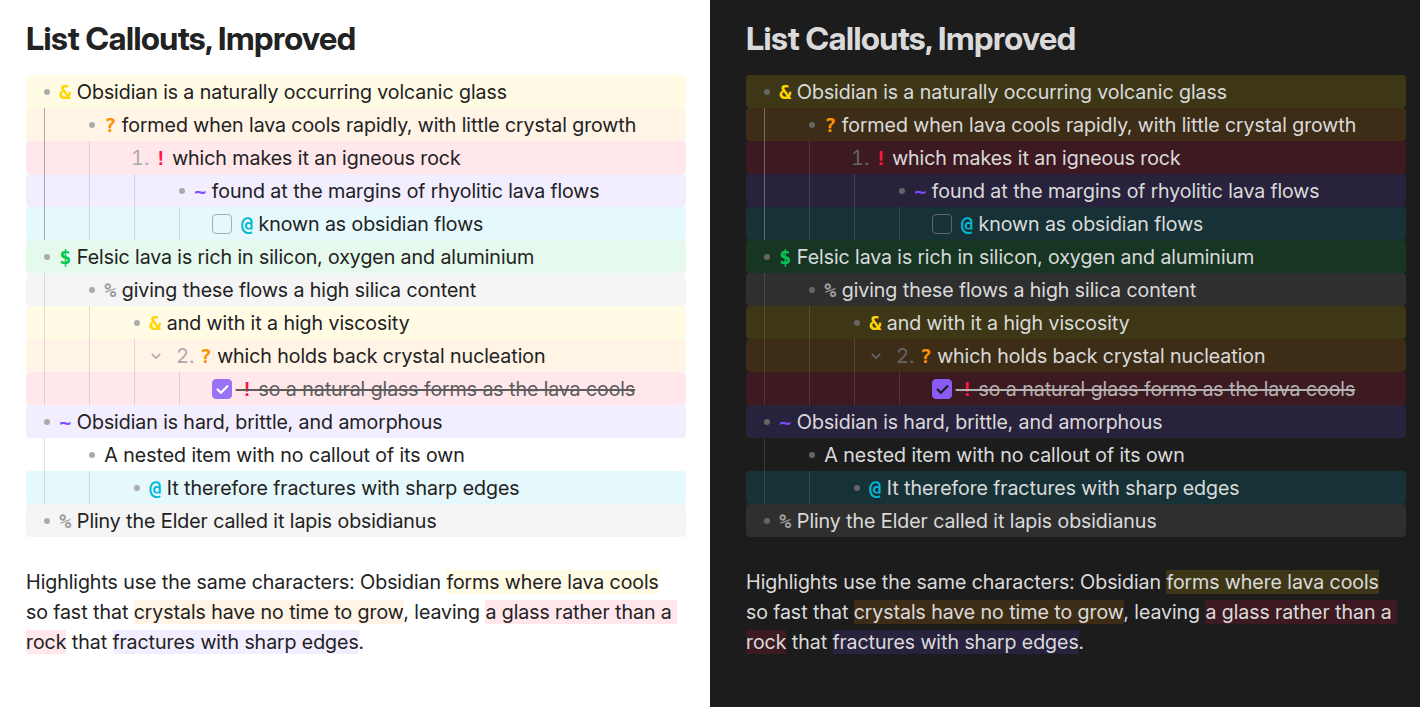
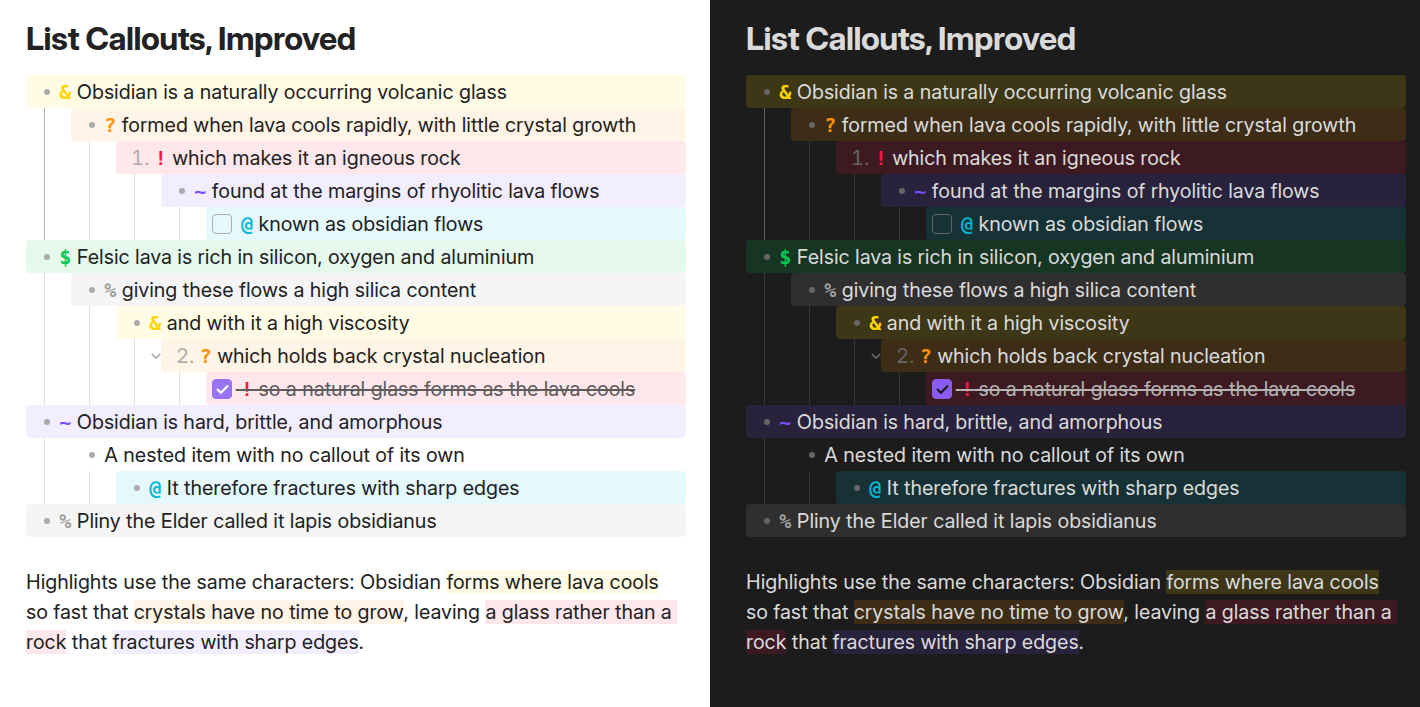
Exclude ancestor indentation, not just cover the marker
Covering the marker outright (the previous commit) fixed #91's flat
case but broke nested lists: left: 0 reaches the line's own edge,
which for a nested line sits behind every ancestor's own indentation
too, not just this item's own marker -- so a deeply nested callout's
background stretched back across its parents' bullets and indent
guides instead of starting at its own.

CodeMirror renders that ancestor indentation as a real, measurable
element (.cm-hmd-list-indent, one span per level, absent on a
top-level line) with no equivalent for "this item's own marker
width" -- unlike marker width, which folds into the line's own
padding-inline-start with no way to pull the two apart. There's no
pure-CSS way to position one element (the background) relative to
another sibling's rendered width, so alignCalloutBackgrounds measures
it directly via requestMeasure and writes it back as the background's
own left offset -- 0 for a top-level line (matching the flat case
already fixed), the indent guide's own right edge otherwise.

Regenerates the README's character screenshot, the only fixture with
nested list items, and adds a nested-list regression test alongside
the existing flat one.

diff --git a/test/specs/numberedListCallouts.e2e.ts b/test/specs/numberedListCallouts.e2e.ts
@@ -47,3 +47,63 @@ describe('Callout background in a numbered list', function () {
     expect(file).toContain('numbered-list-callouts');
   });
 });
+
+/**
+ * A callout background's left offset used to be either a fixed constant
+ * (uneven across marker widths, mgmeyers/obsidian-list-callouts#91) or a
+ * flat 0 (correct for a top-level line, but for a nested one that reaches
+ * all the way back through every ancestor's own indentation instead of
+ * stopping at this item's own marker). Neither holds up once a callout
+ * sits below other list items.
+ */
+describe('Callout background in a nested list', function () {
+  before(async function () {
+    await obsidianPage.resetVault();
+    await browser.executeObsidian(async ({ app }) => {
+      await app.vault.create(
+        'NestedCallouts.md',
+        '- Top level, no callout of its own\n\t- ! Nested once\n\t\t- ! Nested twice\n'
+      );
+    });
+    await openNote('NestedCallouts.md');
+    await browser.$('.lc-list-callout').waitForExist({ timeout: 10000 });
+  });
+
+  it("starts each nested callout's background at its own marker, not its ancestors' indentation", async function () {
+    const rows = await browser.executeObsidian(() => {
+      return Array.from(
+        document.querySelectorAll<HTMLElement>(
+          '.markdown-source-view .cm-line.lc-list-callout'
+        )
+      ).map((line) => {
+        const bg = line.querySelector<HTMLElement>('.lc-list-bg');
+        const marker = line.querySelector<HTMLElement>('.lc-list-marker');
+        const indentGuide = line.querySelector<HTMLElement>(
+          '.cm-hmd-list-indent'
+        );
+        return {
+          text: line.textContent,
+          bgLeft: bg?.getBoundingClientRect().left,
+          markerLeft: marker?.getBoundingClientRect().left,
+          indentGuideRight: indentGuide?.getBoundingClientRect().right,
+        };
+      });
+    });
+
+    expect(rows.length).toBe(2);
+
+    for (const row of rows) {
+      expect(row.markerLeft).toBeDefined();
+      expect(row.indentGuideRight).toBeDefined();
+
+      // Covers this item's own marker -- the point of #91's fix -- rather
+      // than stopping short of it.
+      expect(row.bgLeft).toBeLessThanOrEqual(row.markerLeft);
+      // But not its ancestors' indentation: once nested, the guide's own
+      // right edge is exactly where "ancestor indent" gives way to "this
+      // item," and the background should start there, not at the line's own
+      // (much further left) edge.
+      expect(row.bgLeft).toBeCloseTo(row.indentGuideRight, 0);
+    }
+  });
+});

diff --git a/styles.css b/styles.css
@@ -117,20 +117,20 @@ settings:
   --lc-highlight-opacity-dark: 0.15;
 }
 
-/* `left: 0` reaches the line's own edge, covering the list marker itself --
-   bullet, checkbox or number alike -- rather than excluding it. An earlier
-   version of this rule instead clipped to content-box with padding inherited
-   from the line, which CodeMirror sets per line to that line's own marker
-   width, to exclude exactly the marker from the paint; the fixed pixel
-   offset that went with it (--lc-bg-left and its checkbox variants) canceled
-   that padding correctly for one specific marker width, but every other
-   line's own inherited padding was added on top of that same fixed number
-   rather than measured from it, so a marker wider than the one the constant
-   was tuned against (mgmeyers/obsidian-list-callouts#91: a numbered list's
-   marker widens past a single digit, e.g. "10." over "1.") was left with a
-   growing, uncovered strip along its own left edge. Covering the marker
-   outright sidesteps that per-line arithmetic entirely -- there's no marker
-   width left to measure or cancel. */
+/* `left: 0` is the fallback for a top-level line -- one with no ancestor
+   list items -- which is also where it belongs: reaching the line's own
+   edge covers the list marker itself (bullet, checkbox or number alike)
+   rather than excluding it. `alignCalloutBackgrounds` in extension.ts
+   overwrites it for a nested line, where "the line's own edge" reaches
+   through every ancestor's own indentation too far left, past this item's
+   own marker (mgmeyers/obsidian-list-callouts#91's numbered-list case is
+   the same defect once flattened to one level: a fixed offset, tuned
+   against one marker width, either excluded too little of a wider one or,
+   at a flat 0, correctly covered every width but had no per-line ancestor
+   indentation to exclude in the first place). CodeMirror renders that
+   indentation as a real, measurable element (`.cm-hmd-list-indent`) with no
+   equivalent for "this item's own marker width," which is why the fix
+   measures the former rather than computing the latter. */
 .lc-list-bg {
   background-color: var(--background-primary);
   position: absolute;

diff --git a/src/extension.ts b/src/extension.ts
@@ -436,6 +436,46 @@ export function buildCalloutDecos(
   return builder.finish();
 }
 
+/**
+ * A nested list line's own `.cm-hmd-list-indent` wraps one span per ancestor
+ * indent level -- CodeMirror renders it as a real, measurable element, unlike
+ * the marker width folded into the line's own `padding-inline-start`, which
+ * has no such breakdown between "ancestor indent" and "this item's own
+ * marker." Its right edge is exactly the boundary `CalloutBackground` needs:
+ * everything before it is indentation carried over from parent list items
+ * (excluded), everything after is this item's own marker and text
+ * (covered). A top-level line has no ancestors and so no such element,
+ * which is also the case in which the background should reach the line's
+ * own left edge, hence the 0 fallback.
+ */
+function alignCalloutBackgrounds(view: EditorView) {
+  view.requestMeasure<{ el: HTMLElement; indent: number }[]>({
+    read(view) {
+      return Array.from(
+        view.dom.querySelectorAll<HTMLElement>('.lc-list-bg')
+      ).flatMap((el) => {
+        const line = el.closest<HTMLElement>('.cm-line');
+        if (!line) return [];
+
+        const indentGuide = line.querySelector<HTMLElement>(
+          '.cm-hmd-list-indent'
+        );
+        const indent = indentGuide
+          ? indentGuide.getBoundingClientRect().right -
+            line.getBoundingClientRect().left
+          : 0;
+
+        return [{ el, indent: Math.max(0, indent) }];
+      });
+    },
+    write(results) {
+      for (const { el, indent } of results) {
+        el.style.left = `${indent}px`;
+      }
+    },
+  });
+}
+
 export const calloutExtension = ViewPlugin.fromClass(
   class {
     decorations: DecorationSet;
@@ -449,6 +489,7 @@ export const calloutExtension = ViewPlugin.fromClass(
       const stats: BuildStats = { highlights: 0 };
       this.decorations = buildCalloutDecos(view, state, stats);
       this.hasHighlights = stats.highlights > 0;
+      alignCalloutBackgrounds(view);
     }
 
     update(update: ViewUpdate) {
